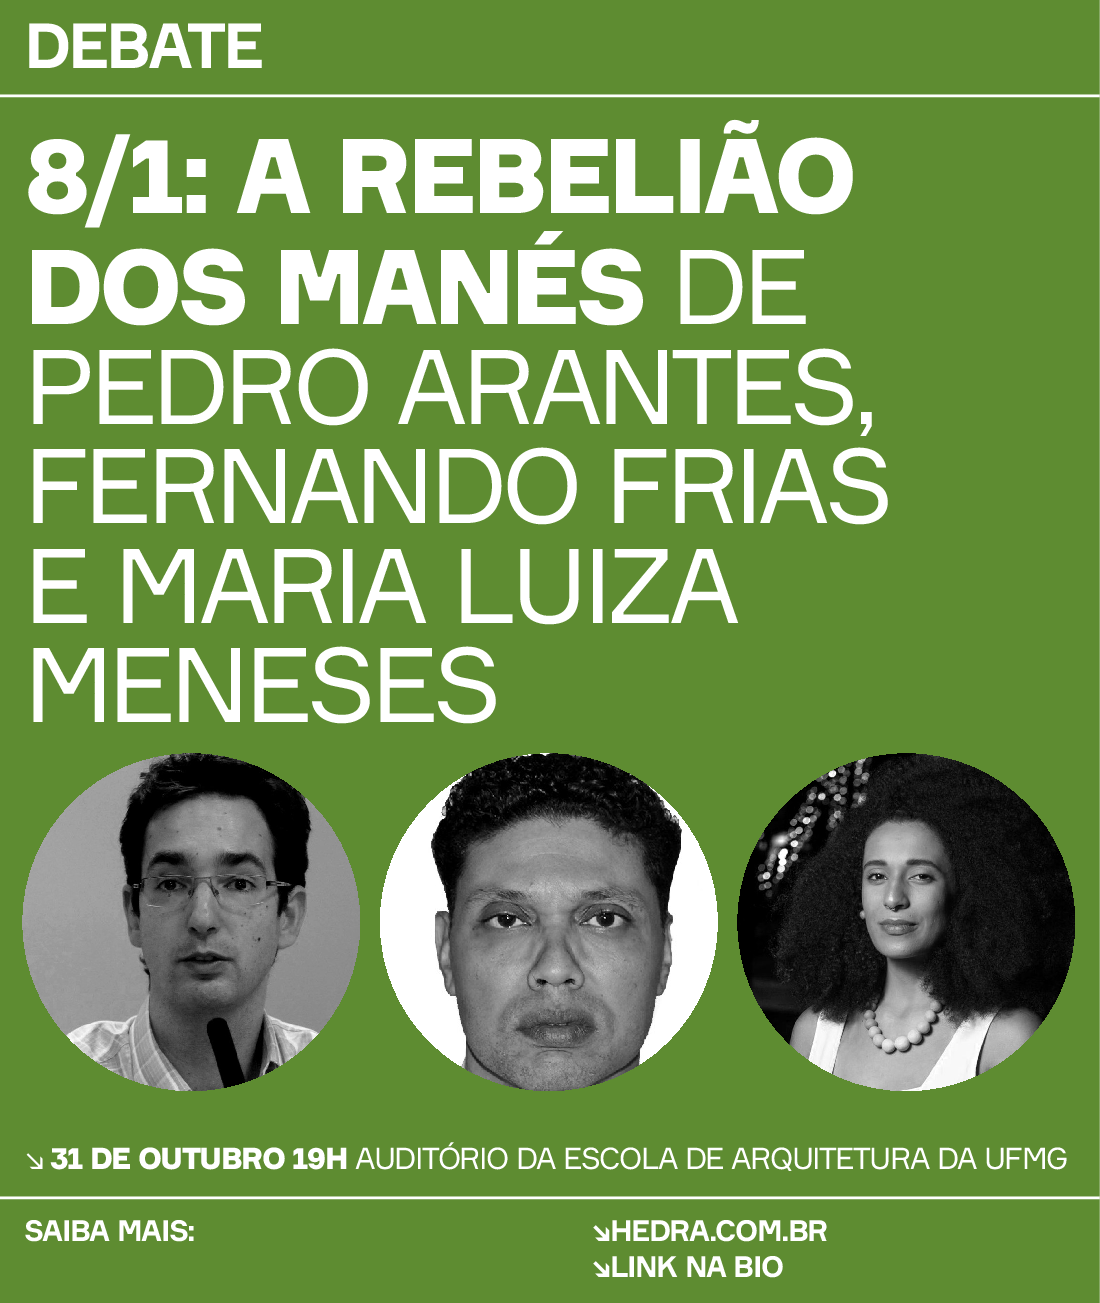
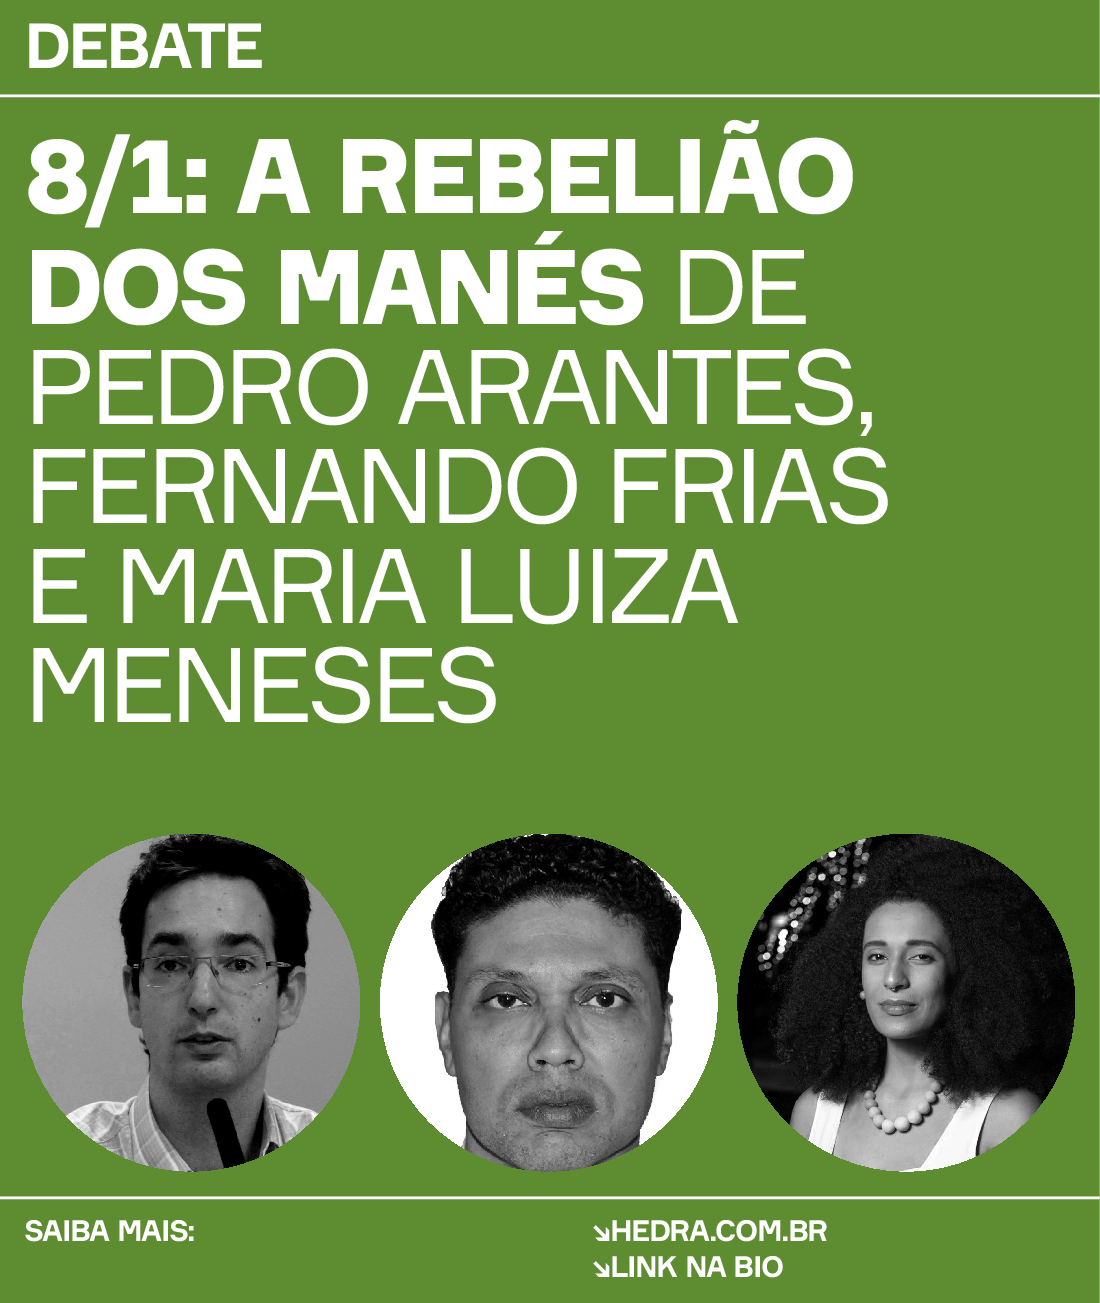
correcoes

Changed region(s): [[0.0, 0.5526, 0.9891, 0.921]]

diff --git a/campanhas/8jan/ARANTES_MANES_EVENTOLANÇAMENTO-2.tex b/campanhas/8jan/ARANTES_MANES_EVENTOLANÇAMENTO-2.tex
@@ -52,8 +52,6 @@
 % Colocar sempre imagens quadradas
 \scale[factor=fit]{\MyPortrait{ARANTES_MANES_AUTOR-PEDROQUADRADO}\quad\MyPortrait{ARANTES_MANES_AUTOR-FERNANDOQUADRADO}\quad\MyPortrait{ARANTES_MANES_AUTOR-MARIAQUADRADO}}
 
-\scale[factor=fit]{\Seta\,{\bf 31 DE OUTUBRO 19H} AUDITÓRIO DA ESCOLA DE ARQUITETURA DA UFMG }
-
 
 \page
 
@@ -70,6 +68,11 @@ e mediação de {\bf THIAGO CANETTIERI}, do grupo de pesquisa {\bf COSMÓPOLIS}.
 
 
 \MyCover{ARANTES_MANES_THUMB}
+
+\vfill
+{\scale[factor=5]{\Seta\,{\bf 31 DE OUTUBRO 19H} AUDITÓRIO DA ESCOLA DE ARQUITETURA}\setupinterlinespace[line=1.7ex]
+\scale[factor=4]{{DA UFMG}}}
+
 
 \page %---------------------------------------------------------|
 
